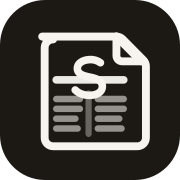
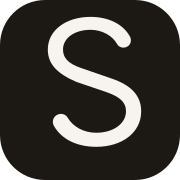
Refresh brand mark to a modern geometric S
Replace the line-drawn newspaper icon with a solid, clean
ribbon S in the same spirit as contemporary geometric marks —
works in the header chip and as favicon/PWA icons.

Changed region(s): [[0.1944, 0.0833, 0.8333, 0.8611]]

diff --git a/src/components/brand/mark.tsx b/src/components/brand/mark.tsx
@@ -1,8 +1,8 @@
 import { cn } from "@/lib/utils";
 
 /**
- * sit with design mark — folded broadsheet + quiet serif masthead “S”.
- * Uses currentColor so it inverts cleanly in the header chip.
+ * sit with design mark — bold geometric ribbon (modern S / sit curve).
+ * Solid, clean, favicon-friendly. currentColor for chip inversion.
  */
 export function BrandMark({
   className,
@@ -21,83 +21,23 @@ export function BrandMark({
       role={title ? "img" : undefined}
     >
       {title ? <title>{title}</title> : null}
-      {/* Paper body */}
-      <path
-        d="M7.5 6.5h13.2c.4 0 .8.16 1.08.44L25.5 10.7c.28.28.44.66.44 1.06V24.5c0 .83-.67 1.5-1.5 1.5h-15c-.83 0-1.5-.67-1.5-1.5v-16c0-.83.67-1.5 1.5-1.5Z"
-        stroke="currentColor"
-        strokeWidth="1.4"
-        strokeLinejoin="round"
-      />
-      {/* Folded corner */}
-      <path
-        d="M20.7 6.5v3.4c0 .55.45 1 1 1h3.4"
-        stroke="currentColor"
-        strokeWidth="1.4"
-        strokeLinecap="round"
-        strokeLinejoin="round"
-      />
-      <path
-        d="M20.7 6.5 25.1 10.9"
-        stroke="currentColor"
-        strokeWidth="1.4"
-        strokeLinecap="round"
-      />
-      {/* Masthead rule */}
-      <path
-        d="M10 14.2h12"
-        stroke="currentColor"
-        strokeWidth="1.35"
-        strokeLinecap="round"
-        opacity="0.95"
-      />
-      {/* Serif S — condensed masthead letter */}
-      <path
-        d="M17.85 11.15c-.55-.42-1.28-.62-2.05-.55-1.22.1-2.05.72-2.05 1.55 0 .78.62 1.22 1.85 1.48l.55.12c1.35.28 2.05.72 2.05 1.62 0 .95-.92 1.58-2.28 1.58-1.05 0-1.95-.35-2.55-.95"
-        stroke="currentColor"
-        strokeWidth="1.35"
-        strokeLinecap="round"
-        strokeLinejoin="round"
-      />
-      {/* Column rules */}
-      <path
-        d="M15.75 16.6v7.2"
-        stroke="currentColor"
-        strokeWidth="1.1"
-        strokeLinecap="round"
-        opacity="0.35"
-      />
-      {/* Text lines — left column */}
-      <path
-        d="M10 17.6h4.2M10 19.35h4.2M10 21.1h3.4M10 22.85h3.8"
-        stroke="currentColor"
-        strokeWidth="1.15"
-        strokeLinecap="round"
-        opacity="0.55"
-      />
-      {/* Text lines — right column */}
-      <path
-        d="M17.4 17.6h4.6M17.4 19.35h4.6M17.4 21.1h3.8M17.4 22.85h4.2"
-        stroke="currentColor"
-        strokeWidth="1.15"
-        strokeLinecap="round"
-        opacity="0.55"
-      />
+      <path fill="currentColor" d="M8.5 8.8c0-3.4 3.2-5.8 7.6-5.8 3.2 0 5.8 1.3 7 3.5.35.65.15 1.45-.5 1.8-.65.35-1.45.15-1.8-.5-.85-1.5-2.7-2.5-4.7-2.5-2.9 0-4.9 1.5-4.9 3.5 0 1.5.95 2.5 3.1 3.25l5.5 1.9c3.4 1.15 5.3 2.95 5.3 5.85 0 3.7-3.3 6.3-8 6.3-3.5 0-6.2-1.4-7.5-3.7-.4-.7-.2-1.55.5-1.95.7-.4 1.55-.2 1.95.5.95 1.6 2.85 2.65 5.05 2.65 3.15 0 5.3-1.7 5.3-3.8 0-1.55-1-2.55-3.4-3.4l-5.45-1.85C10.2 13.1 8.5 11.4 8.5 8.8Z" />
     </svg>
   );
 }
 
-/** Filled chip used in the site header. */
+/** Filled chip used in the site header / footer. */
 export function BrandMarkChip({ className }: { className?: string }) {
   return (
     <span
       className={cn(
-        "flex size-7 shrink-0 items-center justify-center rounded-lg bg-foreground p-1 text-background",
+        "flex size-7 shrink-0 items-center justify-center rounded-lg bg-foreground p-[0.4rem] text-background",
         "transition-transform duration-300 ease-[cubic-bezier(0.22,1,0.36,1)]",
         "group-hover:scale-[1.04] group-active:scale-[0.97]",
         className
       )}
     >
-      <BrandMark className="size-[1.15rem]" />
+      <BrandMark className="size-[1.05rem]" />
     </span>
   );
 }
